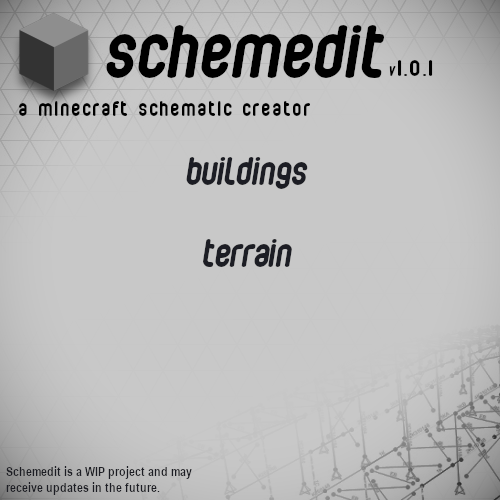
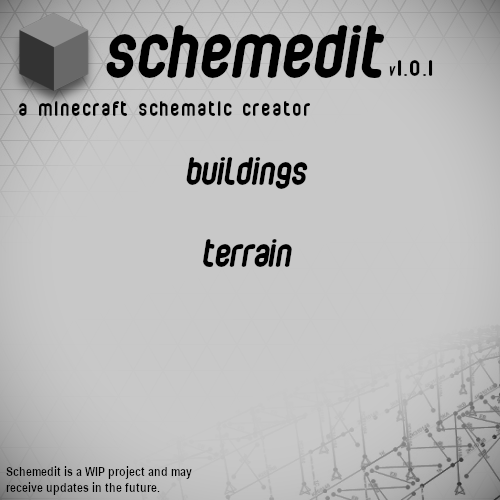
small fixes

diff --git a/main.py b/main.py
@@ -78,7 +78,7 @@ root.title("Schemedit v1.0.1")
 openingFrame = tk.Frame(root, bg="#c9c9c9")
 openingFrame.grid(padx=180,pady=200)
 
-img = tk.PhotoImage(file="Schemedit.png")
+img = tk.PhotoImage(file="Schemedit2.png")
 label = tk.Label(
     root,
     image=img
@@ -149,7 +149,9 @@ openingFrame.tkraise()
 house = tk.Button(openingFrame, text="Generate Modern House ", command=house)
 house.grid(row=0,column=0)
 
-emptyspace1 = tk.Label(openingFrame, text="", bg="#c9c9c9", pady=20)
+img2 = tk.PhotoImage(file="Terrain.png")
+
+emptyspace1 = tk.Label(openingFrame, image=img2, bg="#c9c9c9")
 emptyspace1.grid(row=1,column=0)
 
 plains = tk.Button(openingFrame, text="Generate Plains", command=plains)
